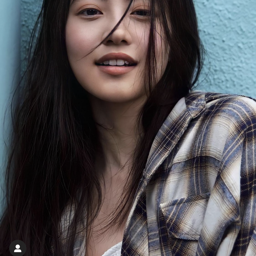
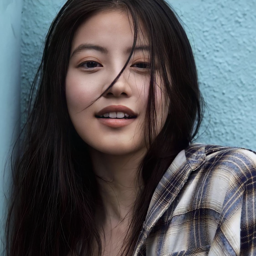
cropPos bottomUP

diff --git a/main.py b/main.py
@@ -2,16 +2,16 @@ import os
 from PIL import Image
 
 # 画像の中心を切り出し
-def CropCenter(img, target_width, target_height):
+def CropCenter(img, target_width, target_height, amt_shift):
     return img.crop(((img.width - target_width) // 2,
-     (img.height - target_height) // 2,
+     (img.height - target_height) // 2 + amt_shift,
      (img.width + target_width) // 2,
-     (img.height + target_height) // 2))
+     (img.height + target_height) // 2 + amt_shift))
 
 
 # 最大サイズの正方形切り出し
-def CropMaxSquare(img):
-    return CropCenter(img, min(img.size), min(img.size))
+def CropMaxSquare(img, amt_shift):
+    return CropCenter(img, min(img.size), min(img.size), amt_shift)
 
 # アスペクト比維持リサイズ
 def KeepAspectImg(img, target_width, target_height):
@@ -30,7 +30,7 @@ def KeepAspectImg(img, target_width, target_height):
 
 
 # 正方形切り出しの画像リサイズmaster
-def ImgResizeSquare(i_path, o_path, target_width, target_height):
+def ImgResizeSquare(i_path, o_path, target_width, target_height, amt_shift):
     
     files = os.listdir(i_path)
     
@@ -38,7 +38,7 @@ def ImgResizeSquare(i_path, o_path, target_width, target_height):
         img = Image.open(os.path.join(i_path, file))
         
         # 最大サイズの正方形切り出し → 目的のサイズへリサイズ
-        cropped_img = CropMaxSquare(img)
+        cropped_img = CropMaxSquare(img, amt_shift)
         resized_img = KeepAspectImg(cropped_img, target_width, target_height)
 
         # 画像保存
@@ -61,10 +61,13 @@ if __name__ == "__main__":
     RESIZE_WIDTH_DEFAULT = 256
     RESIZE_HEIGHT_DEFAULT = 256
 
+    # 正方形切り出しの位置を上げる量 負: 上へシフト, 正: 下へシフト
+    AMOUNT_SHIFT = -240
+
     # 入力, 出力のパス取得
     i_path, o_path = GetInputOutputPath()
 
-    ImgResizeSquare(i_path, o_path, RESIZE_WIDTH_DEFAULT, RESIZE_HEIGHT_DEFAULT)
+    ImgResizeSquare(i_path, o_path, RESIZE_WIDTH_DEFAULT, RESIZE_HEIGHT_DEFAULT, AMOUNT_SHIFT)
 
 
 
